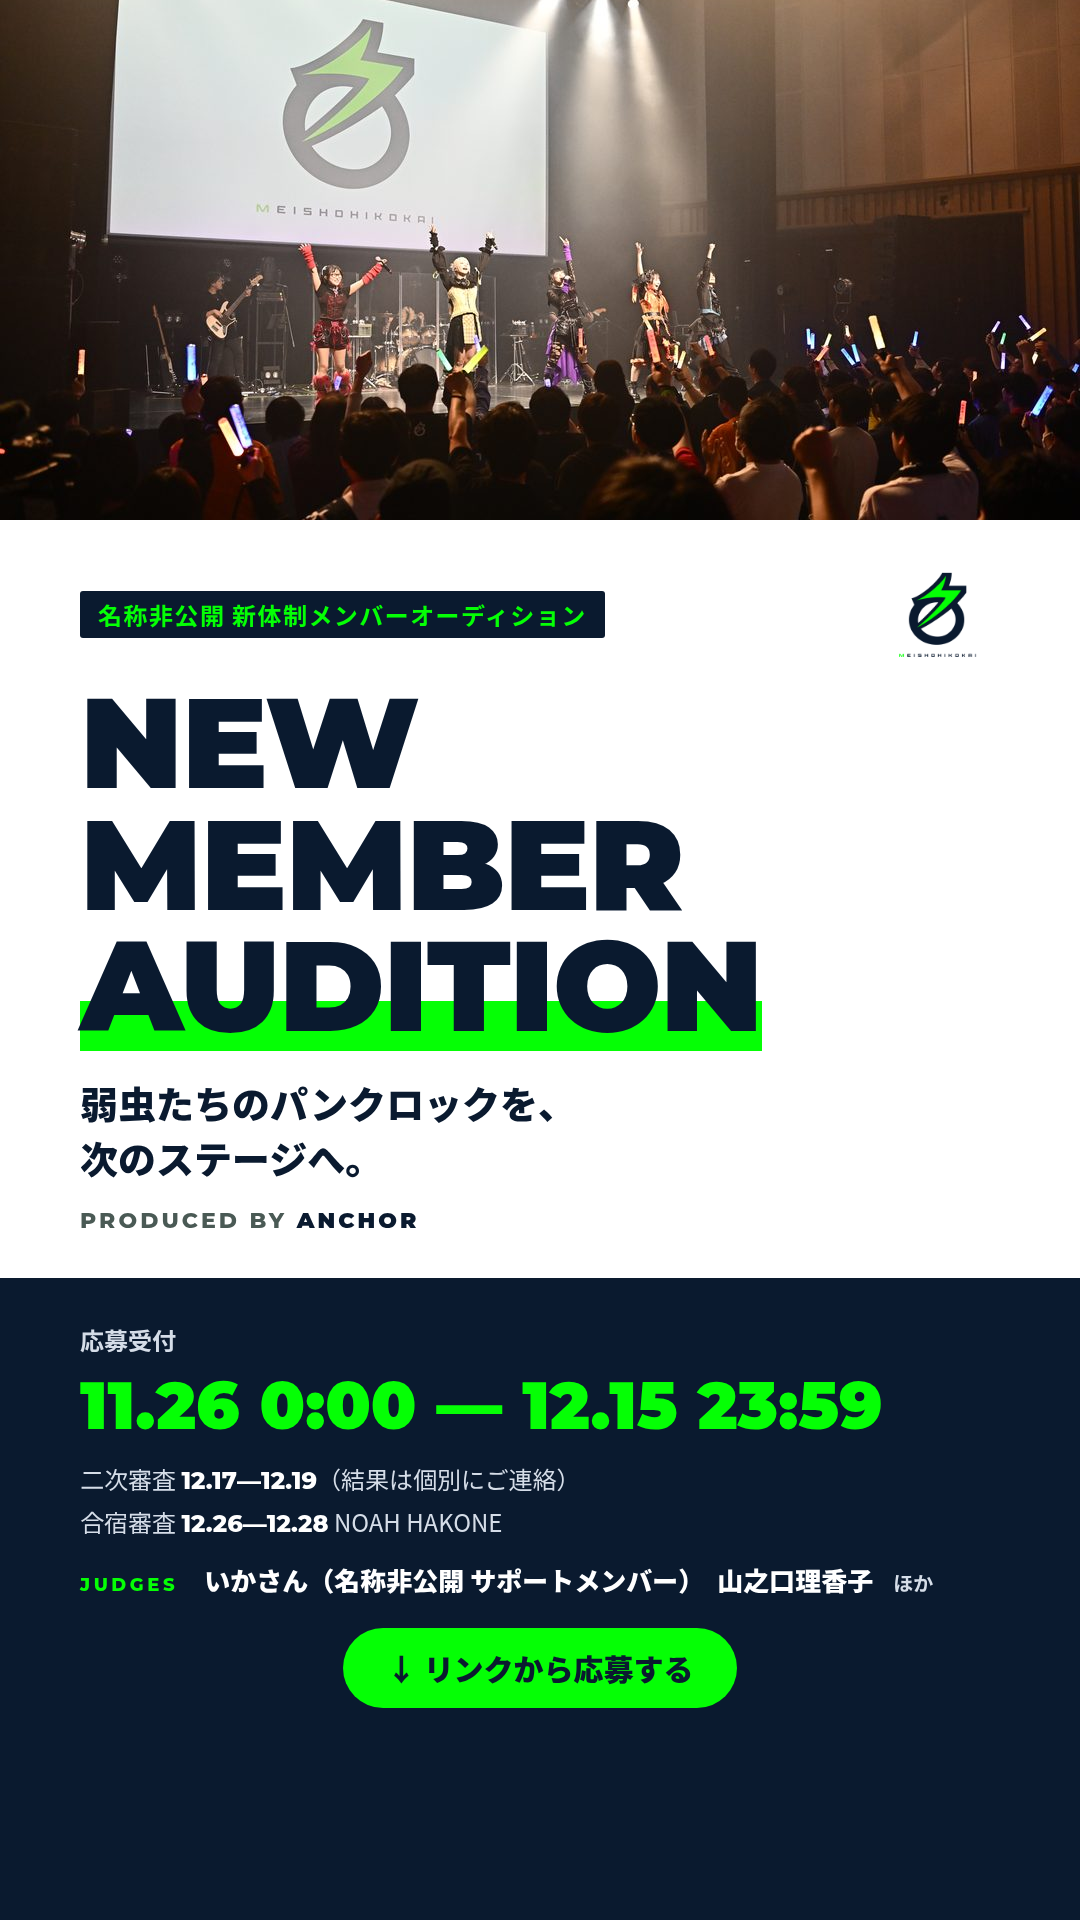
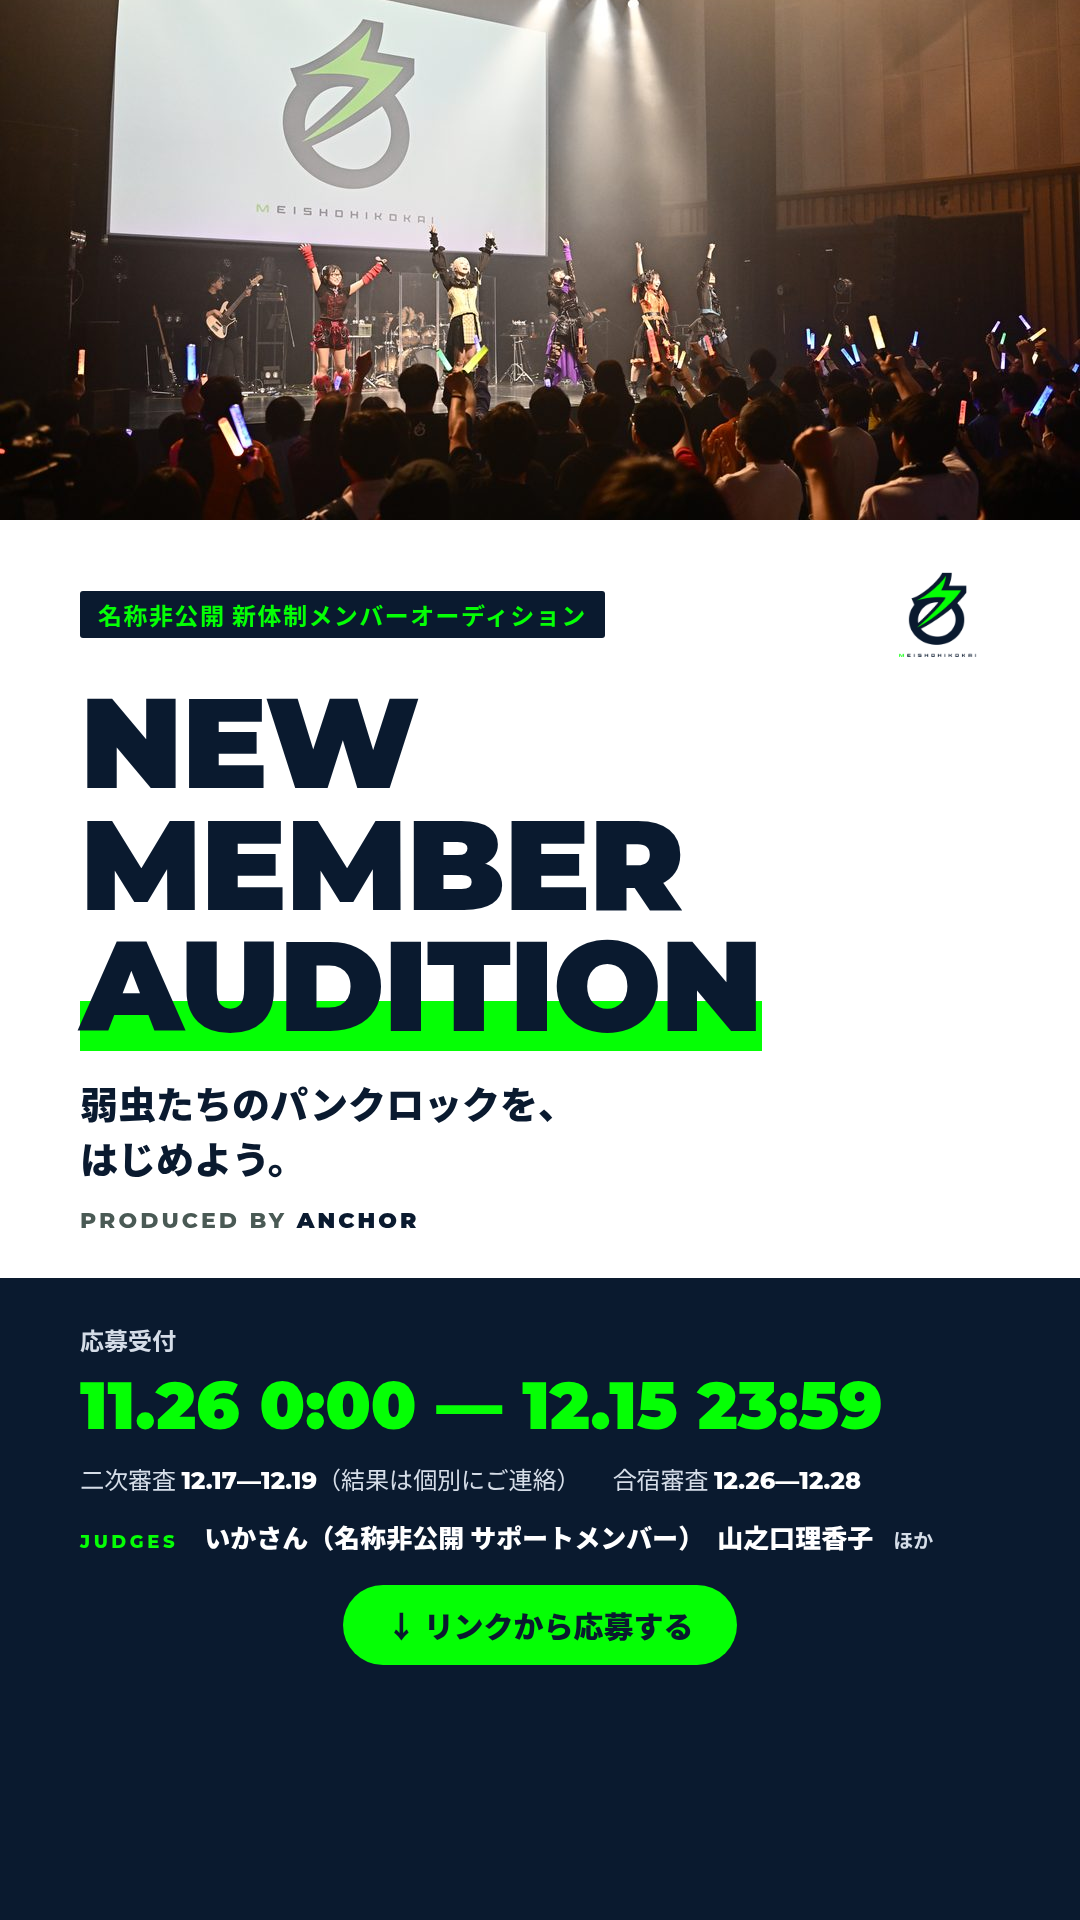
Remove venue name from flyer and SNS assets
Drop NOAH HAKONE from the flyer and SNS HTML/PNGs, and from the BudouX phrase list. Do not run BudouX on the pages.

Changed region(s): [[0.0611, 0.75, 0.7944, 0.9062], [0.0611, 0.5938, 0.3361, 0.625], [0.825, 0.7812, 0.8556, 0.8438]]

diff --git a/sns_feed_1080x1350.html b/sns_feed_1080x1350.html
@@ -33,7 +33,7 @@ body{margin:0;background:#FFFFFF}
 
 <div style="flex: 1 1 auto; background: #0A1A2F; color: #FFFFFF; box-sizing: border-box; padding: 30px 80px 0; display: flex; flex-direction: column; gap: 14px">
 <div style="display: flex; align-items: baseline; gap: 20px"><span style="font-size: 22px; font-weight: 700; color: #D5DDE8">応募受付</span><span style="font-family: 'Montserrat', sans-serif; font-size: 50px; font-weight: 900; color: var(--accent); line-height: 1.1">2026.11.26 0:00 — 12.15 23:59</span></div>
-<div style="display: flex; flex-wrap: wrap; gap: 6px 28px; font-size: 20px; color: #D5DDE8"><span>二次審査 <b style="font-family: 'Montserrat', sans-serif; color: #FFFFFF">12.17—12.19</b>（結果は個別にご連絡）</span><span>合宿審査 <b style="font-family: 'Montserrat', sans-serif; color: #FFFFFF">12.26—12.28</b> NOAH HAKONE</span></div>
+<div style="display: flex; flex-wrap: wrap; gap: 6px 28px; font-size: 20px; color: #D5DDE8"><span>二次審査 <b style="font-family: 'Montserrat', sans-serif; color: #FFFFFF">12.17—12.19</b>（結果は個別にご連絡）</span><span>合宿審査 <b style="font-family: 'Montserrat', sans-serif; color: #FFFFFF">12.26—12.28</b></span></div>
 <div style="font-size: 22px; font-weight: 900"><span style="font-family: 'Montserrat', sans-serif; font-size: 15px; font-weight: 800; letter-spacing: 0.2em; color: var(--accent)">JUDGES</span>　いかさん（名称非公開 サポートメンバー）　山之口理香子<span style="font-size: 17px; font-weight: 700; color: #D5DDE8">　ほか</span></div>
 <div style="margin-top: auto; margin-left: -80px; margin-right: -80px; background: var(--accent); color: #0A1A2F; padding: 18px 80px; display: flex; justify-content: space-between; align-items: center">
 <span style="font-size: 26px; font-weight: 900">応募はプロフィールのリンクから</span>

diff --git a/flyer_a4.html b/flyer_a4.html
@@ -36,7 +36,7 @@ body{margin:0;background:#FFFFFF}
 <div style="display: flex; flex-direction: column; gap: 6px">
 <div style="display: flex; align-items: baseline; gap: 14px; border-bottom: 1px solid #2A3D57; padding-bottom: 6px"><span style="flex: 0 0 132px; font-size: 14px; font-weight: 700; color: #D5DDE8">応募受付</span><span style="font-family: 'Montserrat', sans-serif; font-size: 24px; font-weight: 900; color: var(--accent)">11.26 0:00 — 12.15 23:59</span></div>
 <div style="display: flex; align-items: baseline; gap: 14px; border-bottom: 1px solid #2A3D57; padding-bottom: 6px"><span style="flex: 0 0 132px; font-size: 14px; font-weight: 700; color: #D5DDE8">二次審査（対面）</span><span style="font-family: 'Montserrat', sans-serif; font-size: 18px; font-weight: 800">12.17 — 12.19</span><span style="font-size: 12px; color: #D5DDE8">結果は個別にご連絡</span></div>
-<div style="display: flex; align-items: baseline; gap: 14px; border-bottom: 1px solid #2A3D57; padding-bottom: 6px"><span style="flex: 0 0 132px; font-size: 14px; font-weight: 700; color: #D5DDE8">三次審査（合宿）</span><span style="font-family: 'Montserrat', sans-serif; font-size: 18px; font-weight: 800">12.26 — 12.28</span><span style="font-size: 12px; color: #D5DDE8">NOAH HAKONE・2泊3日・結果は個別にご連絡</span></div>
+<div style="display: flex; align-items: baseline; gap: 14px; border-bottom: 1px solid #2A3D57; padding-bottom: 6px"><span style="flex: 0 0 132px; font-size: 14px; font-weight: 700; color: #D5DDE8">三次審査（合宿）</span><span style="font-family: 'Montserrat', sans-serif; font-size: 18px; font-weight: 800">12.26 — 12.28</span><span style="font-size: 12px; color: #D5DDE8">2泊3日・結果は個別にご連絡</span></div>
 
 </div>
 <div style="display: flex; flex-direction: column; gap: 4px">

diff --git a/sns_story_1080x1920.html b/sns_story_1080x1920.html
@@ -30,7 +30,7 @@ body{margin:0;background:#FFFFFF}
 <div style="flex: 1 1 auto; background: #0A1A2F; color: #FFFFFF; box-sizing: border-box; padding: 44px 80px 0; display: flex; flex-direction: column; gap: 16px">
 <div style="font-size: 24px; font-weight: 700; color: #D5DDE8">応募受付</div>
 <div style="font-family: 'Montserrat', sans-serif; font-size: 66px; font-weight: 900; color: var(--accent); line-height: 1">11.26 0:00 — 12.15 23:59</div>
-<div style="display: flex; flex-wrap: wrap; gap: 8px 32px; font-size: 24px; color: #D5DDE8; margin-top: 6px"><span>二次審査 <b style="font-family: 'Montserrat', sans-serif; color: #FFFFFF">12.17—12.19</b>（結果は個別にご連絡）</span><span>合宿審査 <b style="font-family: 'Montserrat', sans-serif; color: #FFFFFF">12.26—12.28</b> NOAH HAKONE</span></div>
+<div style="display: flex; flex-wrap: wrap; gap: 8px 32px; font-size: 24px; color: #D5DDE8; margin-top: 6px"><span>二次審査 <b style="font-family: 'Montserrat', sans-serif; color: #FFFFFF">12.17—12.19</b>（結果は個別にご連絡）</span><span>合宿審査 <b style="font-family: 'Montserrat', sans-serif; color: #FFFFFF">12.26—12.28</b></span></div>
 <div style="font-size: 26px; font-weight: 900; margin-top: 6px"><span style="font-family: 'Montserrat', sans-serif; font-size: 18px; font-weight: 800; letter-spacing: 0.2em; color: var(--accent)">JUDGES</span>　いかさん（名称非公開 サポートメンバー）　山之口理香子<span style="font-size: 20px; font-weight: 700; color: #D5DDE8">　ほか</span></div>
 <div style="margin-top: 14px; align-self: center; background: var(--accent); color: #0A1A2F; padding: 18px 44px; border-radius: 999px; font-size: 30px; font-weight: 900">↓ リンクから応募する</div>
 </div>

diff --git a/tools/apply_budoux.py b/tools/apply_budoux.py
@@ -33,7 +33,6 @@ ATOMS = sorted(
         "“上手い人”",
         "Anime Festival Asia",
         "Next Stage",
-        "NOAH HAKONE（箱根）",
         "日本武道館",
         "在り来たりな",
         "名もない",
@@ -77,7 +76,7 @@ ATOMS = sorted(
 
 # Multi-word Latin units must not wrap at their internal spaces.
 NOWRAP_ATOMS = {
-    "Anime Festival Asia", "Next Stage", "NOAH HAKONE（箱根）",
+    "Anime Festival Asia", "Next Stage",
     "“本物”へ。", "“本物”へ", "“心を動かせる人”。", "“心を動かせる人”", "“上手い人”",
     "『ここ俺』", "『モブせか2』",
 }
